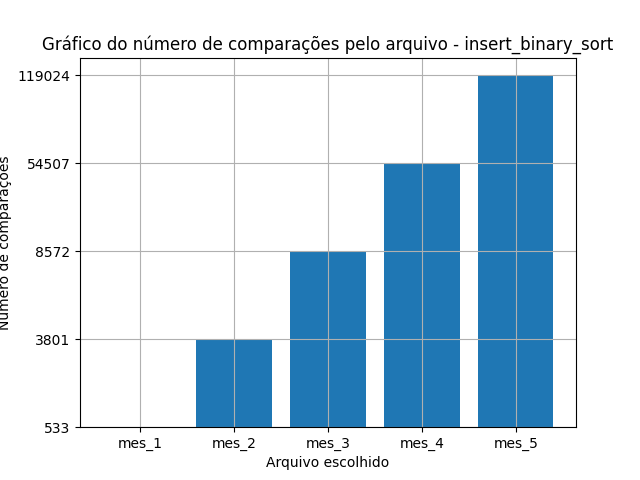
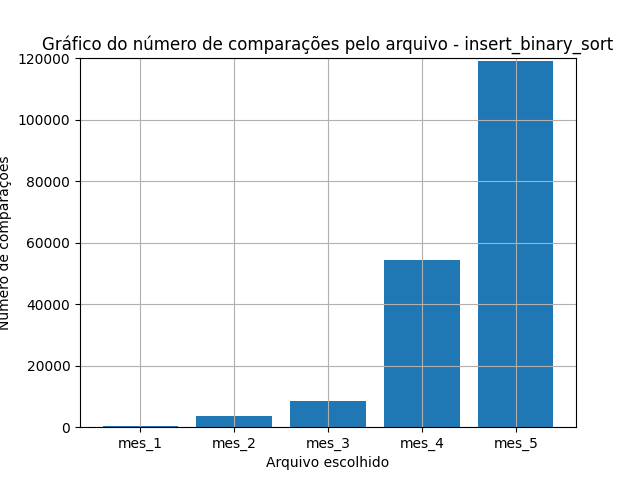
Fixing problem with the minimum value of y axis.

diff --git a/data/graph_generator.py b/data/graph_generator.py
@@ -24,11 +24,15 @@ for nome_do_arquivo in csv_files:
             line = line.split(",")
 
             arquivo.append(line[0])
-            comparacoes.append(line[1])
-            movimentos.append(line[2])
+            comparacoes.append(int(line[1]))
+            movimentos.append(int(line[2]))
 
-        fig = plt.figure()
+        #fig = plt.figure()
+        fig, ab = plt.subplots()
+        ab.ticklabel_format(style='plain') # para não ficar em notação científica
+        ax = plt.gca()
         plt.bar(arquivo, comparacoes)
+        ax.set_ylim(0,1.01 * max(comparacoes)) # para definir o limite no eixo y
         plt.title("Gráfico do número de comparações pelo arquivo - " + name)
         plt.xlabel("Arquivo escolhido")
         plt.ylabel("Número de comparações")
@@ -36,8 +40,12 @@ for nome_do_arquivo in csv_files:
         # plt.show()
         plt.savefig("graphs/" + name + "-comparacoes.png", format="png", dpi=fig.dpi)
 
-        fig = plt.figure()
+        #fig = plt.figure()
+        fig, ab = plt.subplots()
+        ab.ticklabel_format(style='plain')
+        ax = plt.gca()
         plt.bar(arquivo, movimentos)
+        ax.set_ylim(0,1.01 * max(movimentos))
         plt.title("Gráfico do número de movimentações pelo arquivo - " + name)
         plt.xlabel("Arquivo escolhido")
         plt.ylabel("Número de movimentações")
